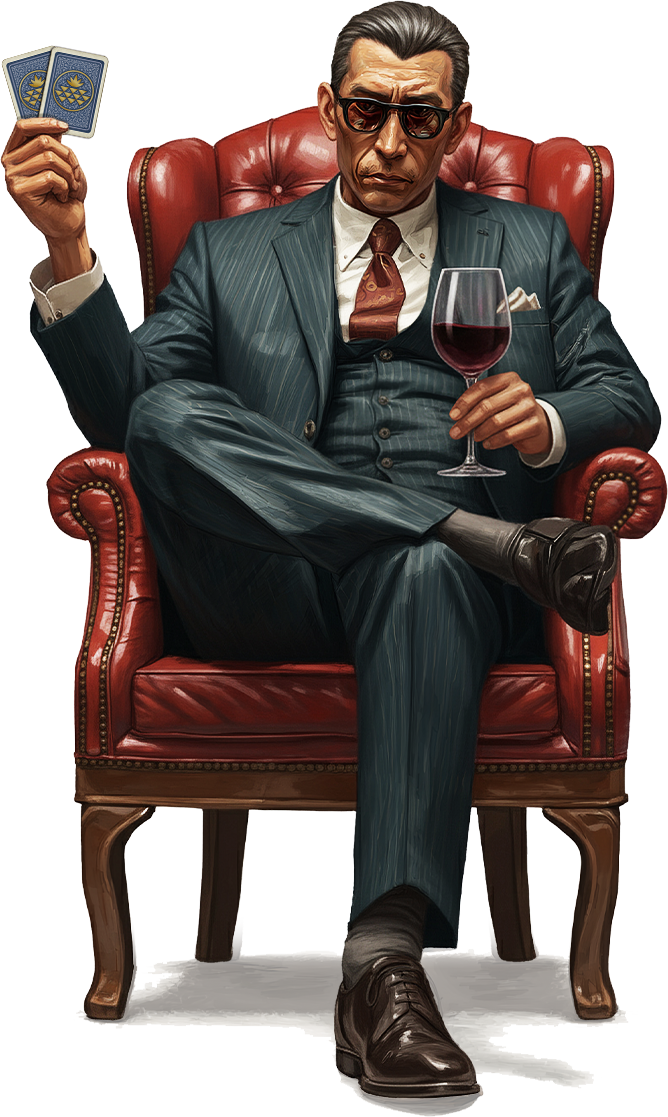
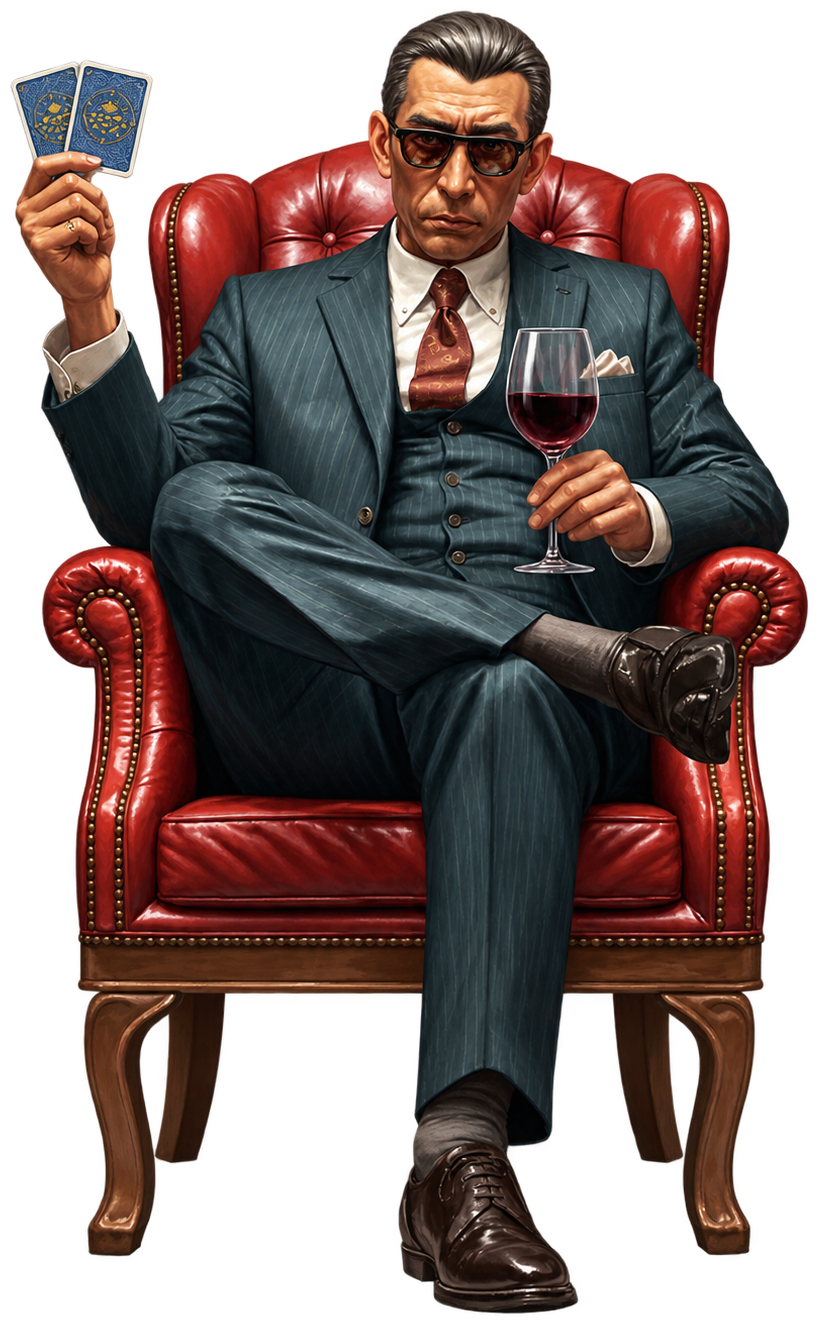
更新手榴彈

diff --git a/js/i18n.js b/js/i18n.js
@@ -218,6 +218,7 @@ const I18N = {
     'howToPlay.interactive.rowLocked': '（這輪不開放）',
     'howToPlay.interactive.stepSuccessTitle': '成功',
     'howToPlay.interactive.correctedTitle': '失敗',
+    'howToPlay.interactive.explainPending': '排好後按「確認排列」查看結果。',
     'howToPlay.interactive.cat.empty': '（尚無牌型）',
     'howToPlay.interactive.cat.high': '散牌',
     'howToPlay.interactive.cat.pair': '一對',
@@ -238,17 +239,23 @@ const I18N = {
     'about.head.title': '關於我們｜OFC 撲克：大菠蘿',
     'about.head.description': '認識 OFC 撲克：大菠蘿 開發團隊 Mondraw。',
     'about.hero.eyebrow': '【HQ 檔案 // 幕後特務檔案】',
-    'about.hero.title': '用心打造每一張牌桌',
-    'about.hero.desc': '我們是 Mondraw，一群同樣熱愛牌局的開發者。我們相信最好的撲克體驗，是不用準備實體牌具、籌碼或記分本，動動手指就能跟朋友或牌友較量一番。OFC 撲克：大菠蘿 匯集了德州撲克、奧馬哈、OFC 等玩家熟悉的多種玩法，力求重現真實牌桌前的臨場感。團隊成員都來自業界，對行動應用與社交遊戲抱有高度熱情，持續打造全球玩家會喜歡的作品。',
+    'about.hero.title': '每一手牌，都是我們的任務',
+    'about.hero.desc': '我們是 Mondraw，一群熱愛牌局，也熱愛打造遊戲的開發者。',
+    'about.hero.desc2': '我們希望，打開手機就能隨時進入牌桌。不需要準備實體牌具、籌碼，也不需要等待牌友到齊，動動手指，就能開始一場精彩對局。',
+    'about.hero.desc3': 'OFC 撲克：大菠蘿 以 OFC 為核心，帶來經典 OFC、OFC Joker 與 OFC SNG 等多種玩法，同時收錄德州撲克、奧馬哈／PLO、Blackjack 21 與 Rummy 等熟悉的牌桌遊戲。從排牌策略到即時對戰，每種玩法都有不同的節奏與挑戰，讓每一次入場都能找到新的玩法。',
+    'about.hero.desc4': '我們的團隊來自行動應用與遊戲開發領域，持續專注於玩法設計、遊戲體驗與社交互動。我們希望把熟悉的牌桌樂趣帶進手機，讓全球玩家隨時都能找到屬於自己的牌桌。',
+    'about.hero.closing': '任務已啟動。下一手，等你出牌。',
     'about.hero.imgAlt': '四位特務角色圍繞著排開的 OFC 三墩牌局，象徵 Mondraw 打造的牌桌世界觀',
-    'about.mission.tag': '【HQ 情報 // 核心價值檔案】',
-    'about.mission.title': '我們的準則',
-    'about.mission.card1.title': '我們的使命',
-    'about.mission.card1.desc': '打造公平、有趣、且能持續進步的牌桌遊戲體驗，讓每位玩家都能安心享受遊戲。',
-    'about.mission.card2.title': '玩家優先',
-    'about.mission.card2.desc': '我們重視每一則玩家回饋，並持續依照社群意見改善遊戲內容與機制。',
-    'about.mission.card3.title': '負責任娛樂',
-    'about.mission.card3.desc': '遊戲內僅提供虛擬籌碼，不涉及真實金錢賭博，並提醒玩家適度娛樂、量力而為。',
+    'about.mission.tag': '【HQ 情報 // 核心行動準則】',
+    'about.mission.title': '我們相信的牌桌',
+    'about.mission.card1.title': '公平，是每場對局的起點',
+    'about.mission.card1.desc': '每一手牌都應該有公平競爭的機會。我們持續優化遊戲機制與對局體驗，讓玩家能專注於判斷、策略與每一次出牌。',
+    'about.mission.card2.title': '玩家，就是我們的情報來源',
+    'about.mission.card2.desc': '每一則回饋，都是我們持續進化的重要線索。我們傾聽玩家的聲音，從實際遊玩經驗中發現問題、調整細節，讓每一次更新都更接近理想的牌桌體驗。',
+    'about.mission.card3.title': '好玩，也要玩得安心',
+    'about.mission.card3.desc': '我們提供的是虛擬籌碼與遊戲體驗，不涉及真實金錢賭博。我們也鼓勵玩家適度遊玩、量力而為，讓每一場對局都保持在輕鬆愉快的節奏。',
+    'about.mission.card4.title': '持續進化，沒有最終任務',
+    'about.mission.card4.desc': '從一張牌、一個操作，到完整的牌桌體驗，我們持續打磨每個細節。因為對我們來說，完成一款遊戲不是任務的終點，而是下一場行動的開始。',
     'about.cta.tag': '【HQ 召集 // 特務招募令】',
     'about.cta.title': '加入這場行動',
     'about.cta.desc': '立即下載 OFC 撲克：大菠蘿，和 Mondraw 團隊一起打造更好的牌桌體驗。',
@@ -478,6 +485,7 @@ const I18N = {
     'howToPlay.interactive.rowLocked': '(not used this round)',
     'howToPlay.interactive.stepSuccessTitle': 'Success',
     'howToPlay.interactive.correctedTitle': 'Missed',
+    'howToPlay.interactive.explainPending': 'Arrange your cards, then tap "Confirm Placement" to see the result.',
     'howToPlay.interactive.cat.empty': '(no hand yet)',
     'howToPlay.interactive.cat.high': 'High Card',
     'howToPlay.interactive.cat.pair': 'Pair',
@@ -498,17 +506,23 @@ const I18N = {
     'about.head.title': 'About Us | OFC: Pineapple Poker',
     'about.head.description': 'Meet Mondraw, the team behind OFC: Pineapple Poker.',
     'about.hero.eyebrow': '[HQ Files // Behind the Ops]',
-    'about.hero.title': 'Crafting every card table with care',
-    'about.hero.desc': 'We\'re Mondraw, a team of poker lovers building the games we\'d want to play ourselves. No physical cards, chips, or scorekeeping needed — just tap in and play a round with friends or fellow enthusiasts. OFC: Pineapple Poker brings together the formats players already know, like Texas Hold\'em, Omaha, and OFC, aiming to feel as close as possible to sitting at a real table. Our team comes from the games industry, we\'re passionate about mobile and social gaming, and we keep building toward something poker players everywhere will enjoy.',
+    'about.hero.title': 'Every hand is our mission',
+    'about.hero.desc': 'We\'re Mondraw — a team that loves the game as much as we love building it.',
+    'about.hero.desc2': 'We want you to open your phone and step straight into a game. No physical cards, no chips, no waiting for everyone to show up — just tap in and the round begins.',
+    'about.hero.desc3': 'OFC: Pineapple Poker is built around OFC at its core, offering Progressive OFC, OFC Joker, and OFC SNG, alongside familiar table games like Texas Hold\'em, Omaha/PLO, Blackjack 21, and Rummy. From hand-reading strategy to real-time showdowns, every mode has its own rhythm and challenge, so there\'s always something new to discover.',
+    'about.hero.desc4': 'Our team comes from mobile apps and game development, and we stay focused on gameplay design, player experience, and social interaction. We want to bring the table you know onto your phone, so players everywhere can always find a seat of their own.',
+    'about.hero.closing': 'The mission is live. Your move is next.',
     'about.hero.imgAlt': 'Four agent characters gathered around a fully arranged OFC three-row hand, representing the card-table world Mondraw has built',
-    'about.mission.tag': '[HQ Intel // Core Values Brief]',
-    'about.mission.title': 'Our Principles',
-    'about.mission.card1.title': 'Our mission',
-    'about.mission.card1.desc': 'Build a fair, fun, and continuously improving card game experience that every player can enjoy with confidence.',
-    'about.mission.card2.title': 'Players first',
-    'about.mission.card2.desc': 'We value every piece of player feedback and keep improving the game based on community input.',
-    'about.mission.card3.title': 'Responsible play',
-    'about.mission.card3.desc': 'The game offers virtual chips only, with no real-money gambling involved, and we encourage playing in moderation.',
+    'about.mission.tag': '[HQ Intel // Core Operating Principles]',
+    'about.mission.title': 'The table we believe in',
+    'about.mission.card1.title': 'Fairness is where every round starts',
+    'about.mission.card1.desc': 'Every hand deserves a fair shot. We keep refining the game\'s mechanics and match experience so players can focus on judgment, strategy, and every card they play.',
+    'about.mission.card2.title': 'Players are our intel',
+    'about.mission.card2.desc': 'Every piece of feedback is a lead we act on. We listen closely, catch issues from real gameplay, and fine-tune the details so every update gets closer to the table experience we\'re aiming for.',
+    'about.mission.card3.title': 'Fun, without the worry',
+    'about.mission.card3.desc': 'What we offer is virtual chips and gameplay — never real-money gambling. We also encourage playing in moderation, so every session stays light and enjoyable.',
+    'about.mission.card4.title': 'Always evolving, never finished',
+    'about.mission.card4.desc': 'From a single card, a single tap, to the full table experience, we keep polishing every detail. Because for us, shipping a game isn\'t the end of the mission — it\'s the start of the next one.',
     'about.cta.tag': '[HQ Summons // Agent Recruitment Order]',
     'about.cta.title': 'Join the Operation',
     'about.cta.desc': 'Download OFC: Pineapple Poker now and help the Mondraw team build a better card table experience.',
@@ -738,6 +752,7 @@ const I18N = {
     'howToPlay.interactive.rowLocked': '（今回は使用不可）',
     'howToPlay.interactive.stepSuccessTitle': '成功',
     'howToPlay.interactive.correctedTitle': '失敗',
+    'howToPlay.interactive.explainPending': '配置したら「配置を確定」を押して結果を確認しましょう。',
     'howToPlay.interactive.cat.empty': '（まだ役なし）',
     'howToPlay.interactive.cat.high': 'ハイカード',
     'howToPlay.interactive.cat.pair': 'ワンペア',
@@ -758,17 +773,23 @@ const I18N = {
     'about.head.title': '私たちについて｜OFCポーカー：パイナップル',
     'about.head.description': 'OFCポーカー：パイナップル の開発チーム Mondraw をご紹介します。',
     'about.hero.eyebrow': '【本部ファイル // 開発チーム記録】',
-    'about.hero.title': '一つ一つのテーブルに心を込めて',
-    'about.hero.desc': '私たちは Mondraw、カードゲームを愛する開発チームです。本物のカードやチップ、スコア表を用意しなくても、指先ひとつで友人や仲間と対戦できる――それが最高のポーカー体験だと私たちは考えています。OFCポーカー：パイナップル には、テキサスホールデム、オマハ、OFC など馴染みのあるモードを揃え、実際のテーブルに座っているかのような臨場感を目指しました。チームメンバーは全員ゲーム業界出身で、モバイル×ソーシャルゲームへの情熱を持ち、世界中のプレイヤーに楽しんでもらえる作品を作り続けています。',
+    'about.hero.title': '一手一手が、私たちの使命',
+    'about.hero.desc': '私たちは Mondraw。カードゲームを愛し、そして作ることを愛する開発者集団です。',
+    'about.hero.desc2': 'スマホを開けば、いつでもテーブルへ。実物のカードやチップを用意する必要も、仲間が揃うのを待つ必要もありません。指先ひとつで、対局がはじまります。',
+    'about.hero.desc3': 'OFCポーカー：パイナップル は OFC を中核に、OFC プログレッシブ、OFC ジョーカー、OFC SNG など多彩なモードを収録。さらにテキサスホールデム、オマハ／PLO、Blackjack 21、Rummy といった馴染みのあるテーブルゲームも楽しめます。手筋を読む戦略性からリアルタイム対戦まで、モードごとに異なるリズムと挑戦があり、何度プレイしても新しい発見があります。',
+    'about.hero.desc4': '私たちのチームはモバイルアプリとゲーム開発の現場出身で、ゲームデザイン・プレイ体験・ソーシャルな繋がりに向き合い続けています。慣れ親しんだテーブルの楽しさをスマホに届け、世界中のプレイヤーがいつでも自分の席を見つけられるように。',
+    'about.hero.closing': '作戦は、すでに始まっている。次の一手は、君の番だ。',
     'about.hero.imgAlt': 'OFC の3列に並べられた手札を囲む4人のエージェントたち。Mondraw が作り上げるカードテーブルの世界観を象徴',
-    'about.mission.tag': '【本部情報 // コアバリュー記録】',
-    'about.mission.title': '私たちの信条',
-    'about.mission.card1.title': '私たちの使命',
-    'about.mission.card1.desc': '公正で楽しく、進化し続けるカードゲーム体験をつくり、すべてのプレイヤーが安心して楽しめるようにします。',
-    'about.mission.card2.title': 'プレイヤー第一',
-    'about.mission.card2.desc': 'プレイヤーからのフィードバックを大切にし、コミュニティの意見をもとにゲームを改善し続けています。',
-    'about.mission.card3.title': '責任あるプレイ',
-    'about.mission.card3.desc': 'ゲーム内では仮想チップのみを提供し、実際の金銭を賭けることはありません。節度あるプレイをお願いしています。',
+    'about.mission.tag': '【本部情報 // 行動指針記録】',
+    'about.mission.title': '私たちが信じるテーブル',
+    'about.mission.card1.title': '公正であることが、すべての対局の出発点',
+    'about.mission.card1.desc': 'どの手にも、公正に戦えるチャンスがあるべきです。私たちはゲームの仕組みや対局体験を磨き続け、プレイヤーが判断・戦略・一手一手に集中できる環境を目指しています。',
+    'about.mission.card2.title': 'プレイヤーの声こそ、私たちの情報源',
+    'about.mission.card2.desc': '一つひとつのフィードバックが、私たちが進化し続けるための手がかりです。プレイヤーの声に耳を傾け、実際のプレイから課題を見つけ、細部を調整することで、アップデートのたびに理想のテーブル体験へ近づけています。',
+    'about.mission.card3.title': '楽しさも、安心も',
+    'about.mission.card3.desc': '私たちが提供するのは仮想チップとゲーム体験のみで、実際の金銭を賭けるものではありません。プレイヤーには節度あるプレイをおすすめし、どの対局も気軽に楽しめるリズムを保てるようにしています。',
+    'about.mission.card4.title': '進化し続ける。終わりの任務はない',
+    'about.mission.card4.desc': '一枚のカード、一つの操作から、テーブル体験全体まで、私たちは細部を磨き続けます。私たちにとって、ゲームを完成させることは任務の終わりではなく、次の作戦の始まりだからです。',
     'about.cta.tag': '【本部招集 // エージェント募集命令】',
     'about.cta.title': 'この作戦に加わろう',
     'about.cta.desc': '今すぐ OFCポーカー：パイナップル をダウンロードして、Mondraw チームと共により良いカードテーブル体験を作ろう。',

diff --git a/about.html b/about.html
@@ -13,7 +13,7 @@
 <link href="https://fonts.googleapis.com/css2?family=Poppins:wght@500;600;700;800&family=Noto+Sans+TC:wght@400;500;700;900&display=swap" rel="stylesheet">
 <link rel="stylesheet" href="css/style.css">
 </head>
-<body>
+<body class="page-about">
 
 <header class="site-header">
   <nav class="nav container">
@@ -54,22 +54,32 @@
 
 <main>
   <!-- HERO：改用跟首頁「HQ 傳令」信任區塊相同的 .trust / .trust-grid / .trust-portrait
-       排版語彙（原本這裡只是純文字置中的 .hero，跟全站其他頁面已經升級過的
-       「大圖敘事」視覺完全不搭）。右側重用 boss.png（首頁信任區塊已在用的同一張
-       西裝插畫），這裡代表 Mondraw 幕後坐鎮的核心團隊，eyebrow 也改成跟其他頁
-       一致的【HQ ○○ // ○○○○】括號標籤格式。 -->
+       排版語彙。v28 更新：右側主圖從單人肖像 boss.png 換成完整陣容海報裁切版，
+       中間曾試過自己用色彩距離（chroma-key）手動去背＋手動清地板陰影的
+       about-hero-crew.png（來源是舊素材 poster-pineapple-cropped.jpg）；
+       v29 改用「素材／landing page」資料夾內、美術本來就提供的已去背版本
+       OFC_landing去背.png，直接裁掉四周透明留白後另存為
+       landing-hero-crew.png（1270×1695），邊緣品質比自己土法去背更乾淨，
+       首頁 Hero 仍維持單人肖像 boss.png 不變，只有 About us 這頁換成群像版。
+       前者（去背）取代原本吃在圖片裡的淺灰色背景方塊，讓角色群像直接融入頁面
+       深色背景；左下角持槍小場景維持原樣，未額外處理。這樣角色群像＋牌局的
+       構圖比單一肖像更有海報感、更呼應「認識我們的世界觀」而非「這是老闆」的
+       敘事。.trust-portrait img 本身用 width:min(320px,80vw) + height:auto，
+       沒有寫死 aspect-ratio，換圖不需要動 CSS。eyebrow 沿用跟其他頁一致的
+       【HQ ○○ // ○○○○】括號標籤格式。 -->
   <section class="section trust">
     <div class="container trust-grid">
       <div class="transmission">
         <span class="transmission-tag" data-i18n="about.hero.eyebrow">【HQ 檔案 // 幕後特務檔案】</span>
-        <h1 data-i18n="about.hero.title">用心打造每一張牌桌</h1>
-        <p class="transmission-lead" data-i18n="about.hero.desc">
-          我們是 Mondraw，一支熱愛牌桌遊戲的開發團隊。OFC 撲克：大菠蘿 是我們投入策略遊戲設計與公平競技體驗打造的作品，
-          希望讓喜歡動腦與講求刺激的玩家，都能在同一個地方找到樂趣。
-        </p>
+        <h1 data-i18n="about.hero.title">每一手牌，都是我們的任務</h1>
+        <p class="transmission-lead" data-i18n="about.hero.desc">我們是 Mondraw，一群熱愛牌局，也熱愛打造遊戲的開發者。</p>
+        <p data-i18n="about.hero.desc2">我們希望，打開手機就能隨時進入牌桌。不需要準備實體牌具、籌碼，也不需要等待牌友到齊，動動手指，就能開始一場精彩對局。</p>
+        <p data-i18n="about.hero.desc3">OFC 撲克：大菠蘿 以 OFC 為核心，帶來經典 OFC、OFC Joker 與 OFC SNG 等多種玩法，同時收錄德州撲克、奧馬哈／PLO、Blackjack 21 與 Rummy 等熟悉的牌桌遊戲。從排牌策略到即時對戰，每種玩法都有不同的節奏與挑戰，讓每一次入場都能找到新的玩法。</p>
+        <p data-i18n="about.hero.desc4">我們的團隊來自行動應用與遊戲開發領域，持續專注於玩法設計、遊戲體驗與社交互動。我們希望把熟悉的牌桌樂趣帶進手機，讓全球玩家隨時都能找到屬於自己的牌桌。</p>
+        <p class="transmission-closing" data-i18n="about.hero.closing">任務已啟動。下一手，等你出牌。</p>
       </div>
       <div class="trust-portrait">
-        <img src="assets/images/boss.png" alt="西裝紳士插畫，象徵在幕後坐鎮指揮的 Mondraw 核心團隊" data-i18n-alt="about.hero.imgAlt">
+        <img src="assets/images/landing-hero-crew.png" alt="四位特務角色圍繞著排開的 OFC 三墩牌局，象徵 Mondraw 打造的牌桌世界觀" data-i18n-alt="about.hero.imgAlt">
       </div>
     </div>
   </section>
@@ -80,24 +90,29 @@
   <section class="section section-feature">
     <div class="container-wide">
       <div class="section-head">
-        <div class="eyebrow" data-i18n="about.mission.tag">【HQ 情報 // 核心價值檔案】</div>
-        <h2 data-i18n="about.mission.title">我們的準則</h2>
+        <div class="eyebrow" data-i18n="about.mission.tag">【HQ 情報 // 核心行動準則】</div>
+        <h2 data-i18n="about.mission.title">我們相信的牌桌</h2>
       </div>
-      <div class="grid grid-3">
+      <div class="grid grid-4">
         <div class="card mission-card">
           <div class="icon" aria-hidden="true">01</div>
-          <h3 data-i18n="about.mission.card1.title">我們的使命</h3>
-          <p style="font-size:0.9rem;" data-i18n="about.mission.card1.desc">打造公平、有趣、且能持續進步的牌桌遊戲體驗，讓每位玩家都能安心享受遊戲。</p>
+          <h3 data-i18n="about.mission.card1.title">公平，是每場對局的起點</h3>
+          <p style="font-size:0.9rem;" data-i18n="about.mission.card1.desc">每一手牌都應該有公平競爭的機會。我們持續優化遊戲機制與對局體驗，讓玩家能專注於判斷、策略與每一次出牌。</p>
         </div>
         <div class="card mission-card">
           <div class="icon" aria-hidden="true">02</div>
-          <h3 data-i18n="about.mission.card2.title">玩家優先</h3>
-          <p style="font-size:0.9rem;" data-i18n="about.mission.card2.desc">我們重視每一則玩家回饋，並持續依照社群意見改善遊戲內容與機制。</p>
+          <h3 data-i18n="about.mission.card2.title">玩家，就是我們的情報來源</h3>
+          <p style="font-size:0.9rem;" data-i18n="about.mission.card2.desc">每一則回饋，都是我們持續進化的重要線索。我們傾聽玩家的聲音，從實際遊玩經驗中發現問題、調整細節，讓每一次更新都更接近理想的牌桌體驗。</p>
         </div>
         <div class="card mission-card">
           <div class="icon" aria-hidden="true">03</div>
-          <h3 data-i18n="about.mission.card3.title">負責任娛樂</h3>
-          <p style="font-size:0.9rem;" data-i18n="about.mission.card3.desc">遊戲內僅提供虛擬籌碼，不涉及真實金錢賭博，並提醒玩家適度娛樂、量力而為。</p>
+          <h3 data-i18n="about.mission.card3.title">好玩，也要玩得安心</h3>
+          <p style="font-size:0.9rem;" data-i18n="about.mission.card3.desc">我們提供的是虛擬籌碼與遊戲體驗，不涉及真實金錢賭博。我們也鼓勵玩家適度遊玩、量力而為，讓每一場對局都保持在輕鬆愉快的節奏。</p>
+        </div>
+        <div class="card mission-card">
+          <div class="icon" aria-hidden="true">04</div>
+          <h3 data-i18n="about.mission.card4.title">持續進化，沒有最終任務</h3>
+          <p style="font-size:0.9rem;" data-i18n="about.mission.card4.desc">從一張牌、一個操作，到完整的牌桌體驗，我們持續打磨每個細節。因為對我們來說，完成一款遊戲不是任務的終點，而是下一場行動的開始。</p>
         </div>
       </div>
     </div>
